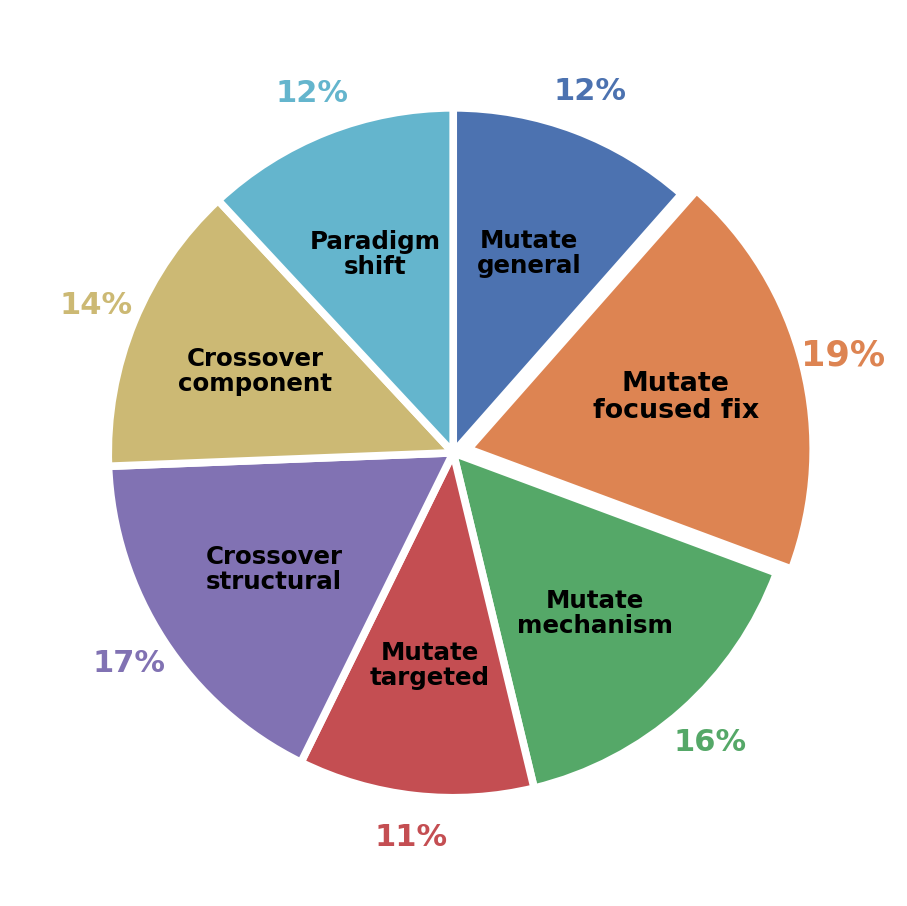
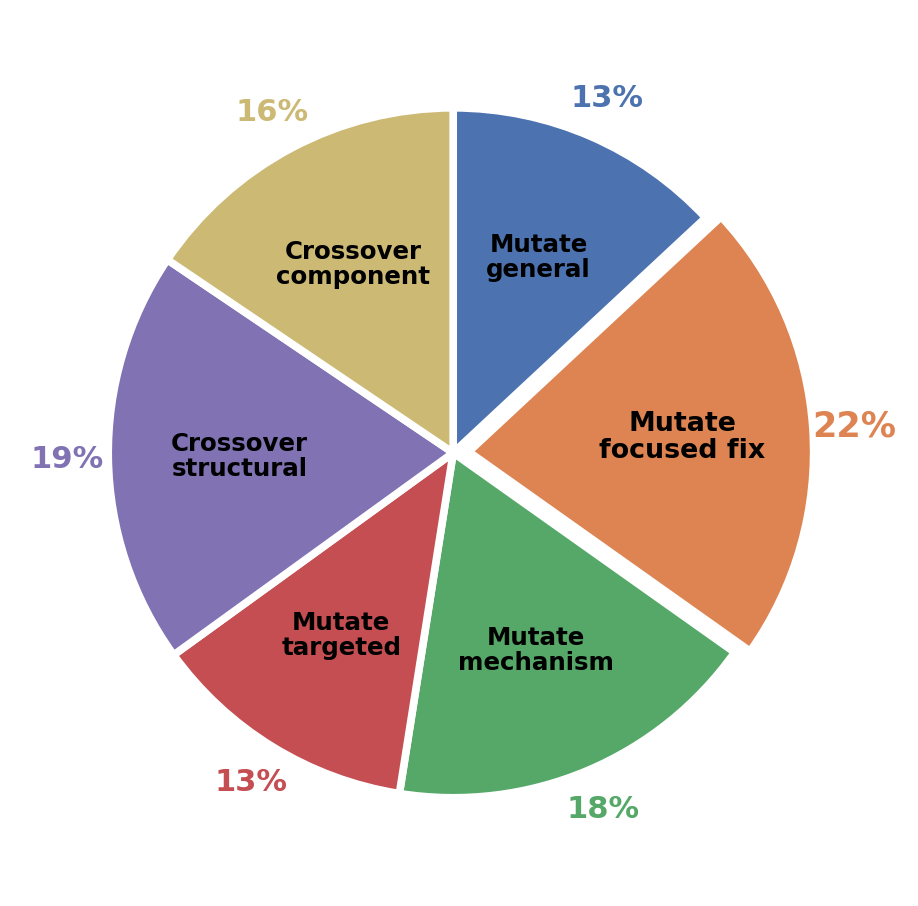
Update specevo

diff --git a/scripts/plots/plot_heilbronn_ablation.py b/scripts/plots/plot_heilbronn_ablation.py
@@ -1,11 +1,12 @@
 #!/usr/bin/env python3
 """Compact grouped bar chart: Heilbronn Triangle hyperparameter ablation.
 
-Two zones along the x-axis, one per ablated knob ("k-means clusters" and
-"paradigm cadence"). Within each zone the three parameter values (20/50/100)
-sit as slim bars snug against each other, each a distinct shade. Scores
-cluster tightly (~0.0350-0.0361), so the y-axis is zoomed into the data band
-with a break marker at the origin to stay honest about the truncation.
+Three zones along the x-axis, one per ablated knob ("k-means clusters",
+"navigator frequency", and "advisor frequency"). Within each zone the three 
+parameter values (20/50/100) sit as slim bars snug against each other, each 
+a distinct shade. Scores cluster tightly (~0.0350-0.0361), so the y-axis is 
+zoomed into the data band with a break marker at the origin to stay honest 
+about the truncation.
 """
 
 from __future__ import annotations
@@ -20,7 +21,8 @@ import numpy as np
 
 # Higher is better.
 KMEANS = {"20": 0.0351, "50": 0.0361, "100": 0.0353}
-PPS_CADENCE = {"20": 0.0361, "50": 0.0357, "100": 0.0350}
+NAVIGATOR_FREQ = {"20": 0.0361, "50": 0.0357, "100": 0.0350}
+ADVISOR_FREQ = {"20": 0.0351, "50": 0.0359, "100": 0.0355}
 
 OUT_DIR = Path(__file__).resolve().parents[2] / "result" / "heilbronn_triangle" / "ablation"
 
@@ -32,9 +34,14 @@ ZONES = [
         "colors": ["#A9C2DD", "#6B97C4", "#3B6EA5"],  # blue ramp
     },
     {
-        "label": "paradigm cadence",
-        "scores": PPS_CADENCE,
+        "label": "navigator frequency",
+        "scores": NAVIGATOR_FREQ,
         "colors": ["#EBBDA9", "#DD8E6E", "#D1603D"],  # terracotta ramp
+    },
+    {
+        "label": "advisor frequency",
+        "scores": ADVISOR_FREQ,
+        "colors": ["#B8DDB8", "#7FC87F", "#4CAF50"],  # green ramp
     },
 ]
 SETTINGS = ["20", "50", "100"]
@@ -56,13 +63,13 @@ def main() -> None:
     y_bottom = lo - span * 0.45
     y_top = hi + span * 0.55
 
-    fig, ax = plt.subplots(figsize=(2.6, 1.9))
+    fig, ax = plt.subplots(figsize=(3.8, 1.9))
 
     bar_w = 0.16
     in_gap = 0.012                # gap between slim bars inside a zone
     n = len(SETTINGS)
     zone_span = n * bar_w + (n - 1) * in_gap
-    zone_pitch = zone_span + 0.22  # small gutter between the two zones
+    zone_pitch = zone_span + 0.22  # small gutter between zones
 
     label_off = span * 0.06
     zone_centres = []
@@ -70,12 +77,24 @@ def main() -> None:
         centre = zi * zone_pitch
         zone_centres.append(centre)
         scores = [zone["scores"][s] for s in SETTINGS]
+        best_score = max(scores)
+        
         # Slim bars packed snug around the zone centre.
         offsets = (np.arange(n) - (n - 1) / 2) * (bar_w + in_gap)
         xs = centre + offsets
         ax.bar(xs, scores, width=bar_w, color=zone["colors"], edgecolor="white",
                linewidth=0.4, zorder=3)
+        
         for x, score in zip(xs, scores):
+            # Add percentage decrease text above the score number for non-best bars
+            if score < best_score:
+                decrease_pct = ((best_score - score) / best_score) * 100
+                # Place red text above the score
+                ax.text(x, score + label_off * 2.5, f'↓{decrease_pct:.1f}%', 
+                       ha="center", va="bottom", fontsize=5, color="red", 
+                       fontweight="bold")
+            
+            # Score number
             ax.text(x, score + label_off, f"{score:.4f}", ha="center", va="bottom",
                     fontsize=5, color="#333333")
 

diff --git a/levi/levi/blade/orchestrator.py b/levi/levi/blade/orchestrator.py
@@ -354,6 +354,7 @@ class BladeResult:
     runtime_seconds: float
     output_dir: str
     paradigm_trials: list[ParadigmTrial] = field(default_factory=list)
+    best_metrics: dict = field(default_factory=dict)
 
 
 # ---------------------------------------------------------------------------
@@ -585,6 +586,16 @@ class BladeOrchestrator:
         parts: list[str] = []
         # Known numeric fields, in skydiscover's reporting order. Only the
         # ones the problem actually returns are shown.
+        # CO-Bench dev/test split: the search optimises ``dev_score`` (== the
+        # fitness ``score``); ``test_score`` is the held-out tail, reported for
+        # generalisation but never optimised. Surface both so a run's log/summary
+        # separates them the same way the baselines do.
+        if "dev_score" in metrics:
+            parts.append(f"dev_score={float(metrics['dev_score']):.4f}")
+        if "test_score" in metrics:
+            parts.append(f"test_score={float(metrics['test_score']):.4f}")
+        if "overall_score" in metrics:
+            parts.append(f"overall_score={float(metrics['overall_score']):.4f}")
         if "normalized_score" in metrics:
             parts.append(f"normalized_score={float(metrics['normalized_score']):.2f}")
         if "total_cost" in metrics:
@@ -659,6 +670,7 @@ class BladeOrchestrator:
             embedding=embedding,
             source=source,  # type: ignore[arg-type]
             created_at_eval=self.monitor.eval_count + 1,
+            metrics=metrics if isinstance(metrics, dict) else {},
         )
         prev_best = self.monitor.best_score
         if force_on_drop:
@@ -1350,6 +1362,7 @@ class BladeOrchestrator:
         result = BladeResult(
             best_program=best.code if best else (self.config.seed_program or ""),
             best_score=best.score if best else float("-inf"),
+            best_metrics=dict(best.metrics) if best and best.metrics else {},
             total_evaluations=self.monitor.eval_count,
             total_cost=self.cost.cost,
             archive_size=len(self.archive),
@@ -1635,6 +1648,7 @@ class BladeOrchestrator:
         snap = {
             "method": "blade-lite",
             "best_score": result.best_score,
+            "best_metrics": result.best_metrics,
             "total_evaluations": result.total_evaluations,
             "total_cost": result.total_cost,
             "archive_size": result.archive_size,

diff --git a/scripts/run_blade.py b/scripts/run_blade.py
@@ -449,6 +449,7 @@ def main() -> int:
         "paradigm_model": args.paradigm_model,
         "embedding_model": args.embedding_model,
         "best_score": result.best_score,
+        "best_metrics": result.best_metrics,
         "total_evaluations": result.total_evaluations,
         "total_cost": result.total_cost,
         "archive_size": result.archive_size,
@@ -478,6 +479,15 @@ def main() -> int:
 
     print()
     print(f"Best score        : {result.best_score:.6f}")
+    # CO-Bench (and any problem returning a dev/test split) reports the held-out
+    # test score alongside the optimised dev score. ``best_score`` == dev_score.
+    _m = result.best_metrics or {}
+    if "dev_score" in _m:
+        print(f"Dev score         : {float(_m['dev_score']):.6f}")
+    if "test_score" in _m:
+        print(f"Test score        : {float(_m['test_score']):.6f}  (held out, not optimised)")
+    if "overall_score" in _m:
+        print(f"Overall score     : {float(_m['overall_score']):.6f}")
     print(f"Evaluations used  : {result.total_evaluations}")
     print(f"Total cost        : ${result.total_cost:.4f}")
     print(f"Archive size      : {result.archive_size}")

diff --git a/scripts/plots/prompt_efficiency.py b/scripts/plots/prompt_efficiency.py
@@ -59,7 +59,7 @@ TYPES = [
     ("mutate_targeted",          "Mutate\ntargeted",     "#C44E52"),
     ("crossover_structural",     "Crossover\nstructural", "#8172B3"),
     ("crossover_component_swap", "Crossover\ncomponent",  "#CCB974"),
-    ("paradigm_shift",           "Paradigm\nshift",       "#64B5CD"),
+    # ("paradigm_shift",           "Paradigm\nshift",       "#64B5CD"),  # Removed
 ]
 ORDER = [t[0] for t in TYPES]
 LABELS = {t[0]: t[1] for t in TYPES}

diff --git a/levi/levi/simple/archive.py b/levi/levi/simple/archive.py
@@ -73,6 +73,7 @@ class Program:
     cell_id: int = -1  # assigned by archive
     ast_vec: np.ndarray | None = None  # 14-d, lazy-filled
     behavior_vec: np.ndarray | None = None  # standardised hybrid, filled by archive
+    metrics: dict = field(default_factory=dict)  # full score_fn dict (dev/test/overall, ...)
 
     def short_repr(self) -> str:
         desc = self.description.replace("\n", " ")

diff --git a/mean_std.py b/mean_std.py
@@ -5,9 +5,9 @@ import statistics
 
 # ===== ĐIỀN 3 GIÁ TRỊ KẾT QUẢ TẠI ĐÂY =====
 VALUES = [
-    0.0333,
-    0.0333,
-    0.0332,
+   4237.2 ,
+   4237.2,
+   3623.188406,
 ]
 
 DECIMALS = 4  # số chữ số thập phân khi làm tròn
